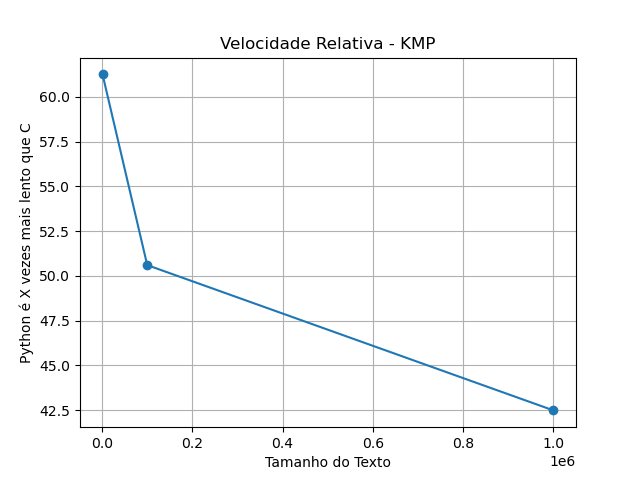
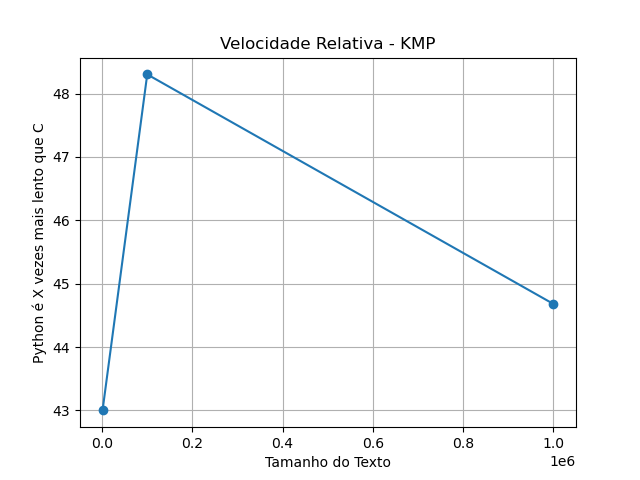
ajuste do grafico

diff --git a/comparacao_kmp.py b/comparacao_kmp.py
@@ -2,7 +2,11 @@ import subprocess
 import re
 import pandas as pd
 import matplotlib.pyplot as plt
+import numpy as np
 
+plt.rcParams["figure.dpi"] = 120
+
+# teste.py
 print("\n==============================")
 print(">>> EXECUTANDO teste.py")
 print("==============================\n")
@@ -17,6 +21,7 @@ print("--------------------------------")
 print(saida_python)
 print("--------------------------------\n")
 
+# teste.c
 print("\n==============================")
 print(">>> COMPILANDO E EXECUTANDO teste.c")
 print("==============================\n")
@@ -38,17 +43,17 @@ def extrair_python(logs):
     dados = []
 
     padrao = re.compile(
-        r"Texto:\s*(\d+),\s*Padrão:\s*(\d+).*?Média:\s*([\d.]+)",
+        r"Texto:\s*(\d+),\s*Padrão:\s*(\d+).*?Média:\s*([\d.]+).*?Desvio padrão:\s*([\d.]+)",
         re.S
     )
 
-    for texto, padrao_tam, media in padrao.findall(logs):
+    for texto, padrao_tam, media, desvio in padrao.findall(logs):
         dados.append({
             "linguagem": "Python",
             "tamanho_texto": int(texto),
             "tamanho_padrao": int(padrao_tam),
             "tempo_medio": float(media),
-            "complexidade": "O(n + m)"
+            "desvio": float(desvio),
         })
 
     return dados
@@ -63,14 +68,15 @@ def extrair_c(logs):
         texto = re.search(r"TEXTO = (\d+)", bloco)
         padrao_tam = re.search(r"PADRAO = (\d+)", bloco)
         media = re.search(r"MEDIA: ([\d.]+)", bloco)
+        desvio = re.search(r"DESVIO PADRAO: ([\d.]+)", bloco)
 
-        if texto and padrao_tam and media:
+        if texto and padrao_tam and media and desvio:
             dados.append({
                 "linguagem": "C",
                 "tamanho_texto": int(texto.group(1)),
                 "tamanho_padrao": int(padrao_tam.group(1)),
                 "tempo_medio": float(media.group(1)),
-                "complexidade": "O(n + m)"
+                "desvio": float(desvio.group(1)),
             })
 
     return dados
@@ -82,56 +88,65 @@ dados_c = extrair_c(saida_c)
 df = pd.DataFrame(dados_python + dados_c)
 
 print("\n==============================")
-print(">>> DADOS EXTRAÍDOS (LOGS TRATADOS)")
+print(">>> DADOS EXTRAÍDOS (TRATADOS)")
 print("==============================\n")
 print(df)
 
-# criar tabela comparativa
-tabela = df.pivot(
-    index=["tamanho_texto", "tamanho_padrao"],
-    columns="linguagem",
-    values="tempo_medio"
-)
+# 6. Curva teórica (O(n+m))
+df_teorica = df.groupby("tamanho_texto")["tamanho_texto"].first()
+# normaliza para a escala dos tempos reais
+df_teorica_norm = df_teorica / df_teorica.max() * df["tempo_medio"].max()
 
-if "Python" in tabela.columns and "C" in tabela.columns:
-    tabela["C_vezes_mais_rapido"] = tabela["Python"] / tabela["C"]
-
-print("\n==============================")
-print(">>> TABELA COMPARATIVA FINAL")
-print("==============================\n")
-print(tabela)
-
-# grafico - tempo de execuçao
+# gráfico: Tempo real + desvio + curva teórica
 plt.figure()
+
 for linguagem in df["linguagem"].unique():
     dados = df[df["linguagem"] == linguagem]
-    plt.plot(
+    plt.errorbar(
         dados["tamanho_texto"],
         dados["tempo_medio"],
+        yerr=dados["desvio"],
         marker='o',
-        label=linguagem
+        capsize=5,
+        label=f"{linguagem} (prático)"
     )
 
-plt.xlabel("Tamanho do Texto")
-plt.ylabel("Tempo Médio (s)")
+plt.plot(
+    df_teorica.index,
+    df_teorica_norm,
+    linestyle="--",
+    label="Curva teórica O(n+m)"
+)
+
+plt.xscale("log")
+plt.yscale("log")
+
+plt.xlabel("Tamanho do Texto (log)")
+plt.ylabel("Tempo (s, log)")
 plt.title("Tempo de Execução - KMP (Python vs C)")
+plt.grid(True, which="both")
 plt.legend()
-plt.grid(True)
-plt.savefig("tempo_execucao_kmp.png")
+plt.savefig("curva_teorica_pratica.png")
 plt.show()
 
-# grafico - velocidade relativa
-if "C_vezes_mais_rapido" in tabela.columns:
-    plt.figure()
-    plt.plot(
-        tabela.index.get_level_values(0),
-        tabela["C_vezes_mais_rapido"],
-        marker='o'
-    )
+# speedup (quantas vezes C é mais rápido)
+df_speed = df.pivot(index="tamanho_texto", columns="linguagem", values="tempo_medio")
+df_speed["speedup"] = df_speed["Python"] / df_speed["C"]
 
-    plt.xlabel("Tamanho do Texto")
-    plt.ylabel("Python é X vezes mais lento que C")
-    plt.title("Velocidade Relativa - KMP")
-    plt.grid(True)
-    plt.savefig("velocidade_relativa_kmp.png")
-    plt.show()
+plt.figure()
+plt.plot(df_speed.index, df_speed["speedup"], marker='o')
+
+# curva sintética ~ linear para comparação de speedup
+synthetic = df_speed.index / df_speed.index.min()
+plt.plot(df_speed.index, synthetic, linestyle="--", label="Curva sintética (linear)")
+
+plt.xscale("log")
+plt.yscale("log")
+
+plt.xlabel("Tamanho do Texto (log)")
+plt.ylabel("Speedup (log)")
+plt.title("Tempo de Execução - KMP (Python vs C) | Curva prática x sintética")
+plt.grid(True, which="both")
+plt.legend()
+plt.savefig("curva_speedup.png")
+plt.show()
